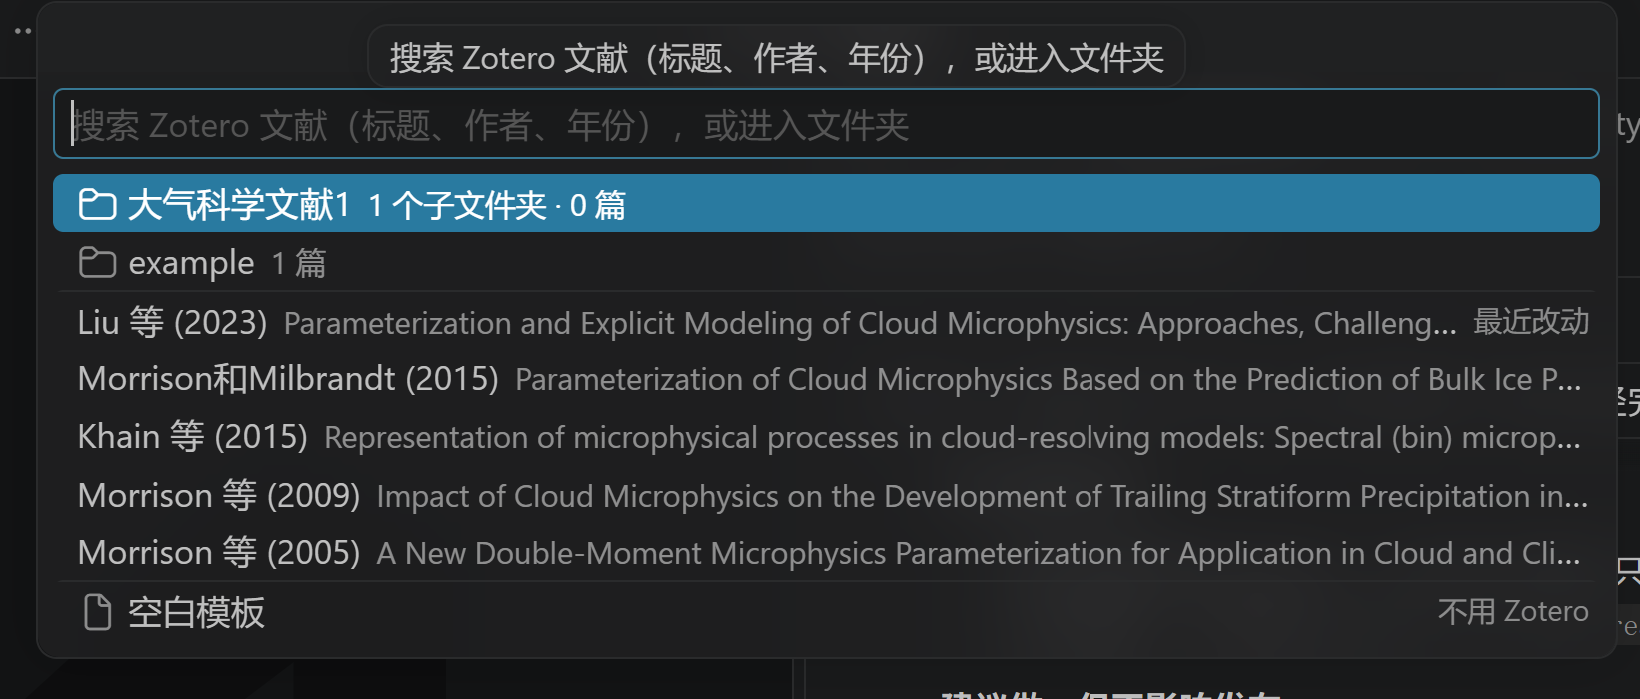
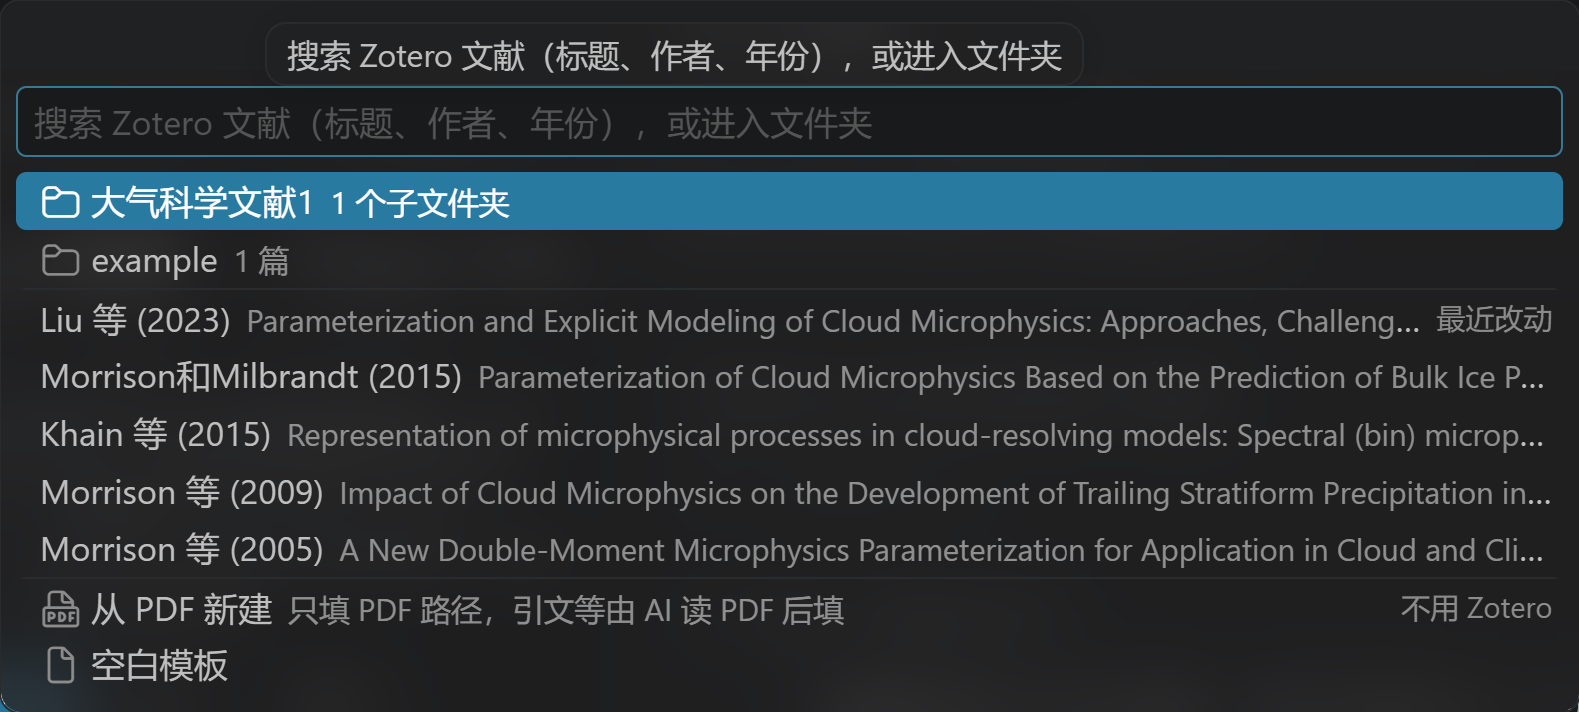
Twig 0.3.6：README 补命令面板截图，更新新建截图
新增四个命令的截图；新建列表截图换成含“从 PDF 新建”的新版，并修正正文与图片说明中的位置描述。

diff --git a/README.md b/README.md
@@ -37,9 +37,13 @@ Twig 把阅读过程画成一棵树：论文各节沿主干竖排，追问向右
 
 ### 2. 使用
 
-**新建**：命令面板运行“Twig：新建 Twig”，按 Zotero 的文件夹逐层找到论文，或直接搜索。选中后，引文、PDF 路径和起始页码自动填好，文件放在 Zotero 数据目录旁的 `Twig阅读整理` 文件夹，按 Zotero 分类建子文件夹。不用 Zotero 的，选最下面的“从 PDF 新建”，选好 PDF 就能开始读，引文等由 AI 读 PDF 后填。
+Twig 的四个命令都在命令面板（Ctrl + Shift + P）里，输入 twig 就能找到。
 
-![新建：按 Zotero 文件夹浏览或直接搜索，最下面是空白模板](images/zotero.png)
+![命令面板中的四个 Twig 命令](images/commands.png)
+
+**新建**：命令面板运行“Twig：新建 Twig”，按 Zotero 的文件夹逐层找到论文，或直接搜索。选中后，引文、PDF 路径和起始页码自动填好，文件放在 Zotero 数据目录旁的 `Twig阅读整理` 文件夹，按 Zotero 分类建子文件夹。不用 Zotero 的，选最下面“不用 Zotero”一组里的“从 PDF 新建”，选好 PDF 就能开始读，引文等由 AI 读 PDF 后填。
+
+![新建：按 Zotero 文件夹浏览或直接搜索，最下面是不用 Zotero 时的选项](images/zotero.png)
 
 **阅读**：
 
